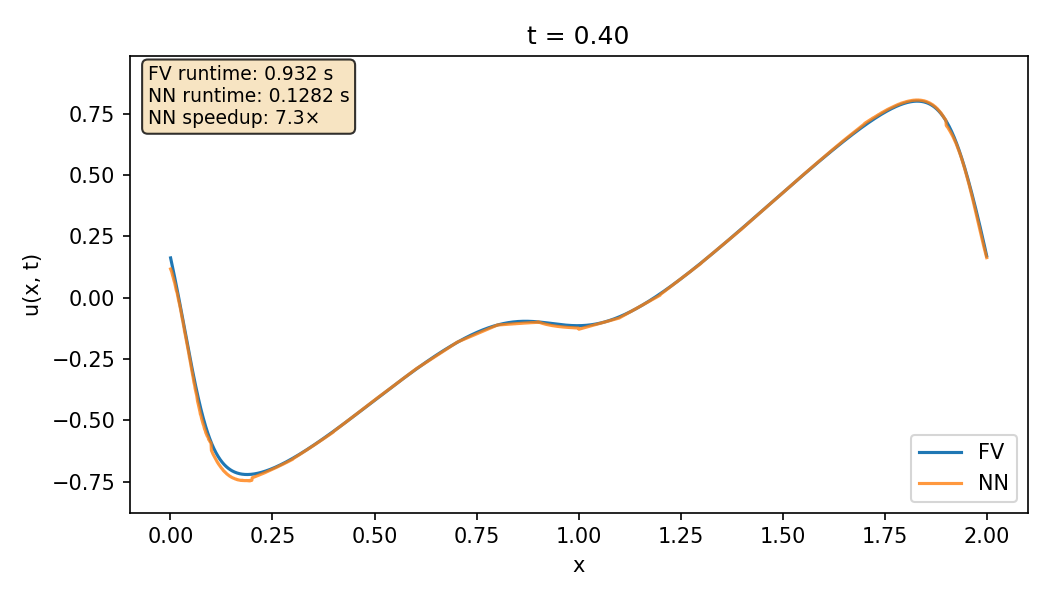
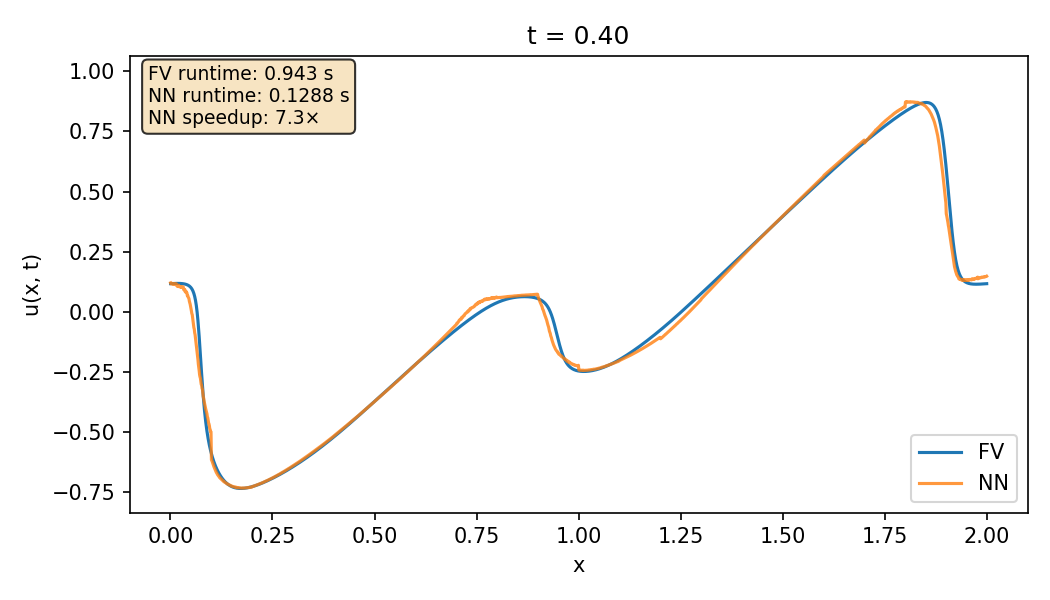
Update configs, figures, and remove latex/README.md

diff --git a/latex/report.tex b/latex/report.tex
@@ -1,4 +1,4 @@
-\documentclass[11pt,a4paper]{article}
+\documentclass[11pt,a4paper]{article}
 \usepackage[utf8]{inputenc}
 \usepackage[T1]{fontenc}
 \usepackage{amsmath,amssymb}
@@ -18,29 +18,27 @@
 \maketitle
 
 \begin{abstract}
-We report numerical experiments for data-driven surrogate models of three PDEs: (1)~1D viscous Burgers equation (finite-volume reference vs.\ MLP); (2)~2D linear wave equation (Fourier spectral reference vs.\ MLP); (3)~2D nonlinear rotating shallow water (Fourier spectral reference vs.\ CNN). For each problem we generate training data from the reference solver, train a neural network, and compare reference and NN rollouts in time. Training curves and comparison figures are included. All configuration parameters are centralized in config files; PDE and training pipelines are unified under a single codebase.
+We report numerical experiments for data-driven surrogate models of three PDEs: (1)~1D viscous Burgers equation (finite-volume reference vs.\ MLP); (2)~2D linear wave equation (Fourier spectral reference vs.\ MLP); (3)~2D nonlinear shallow water (Fourier spectral reference vs.\ CNN). For each problem we generate training data from the reference solver, train a neural network, and compare reference and NN rollouts in time. Training curves and comparison figures are included.
 \end{abstract}
 
-\section{Background}\label{sec:background}
+\section{Background}
 
 \subsection{Element learning}
-The goal is to learn a \emph{local} map (one time step or a few) on a small spatial element (patch) from data produced by a high-fidelity solver. At inference time, the learned map is applied in a rollout over the domain, yielding a fast surrogate that can be compared to the reference solver in accuracy and runtime.
+The goal is to learn a local map on a small spatial element or patch from data produced by a high-fidelity solver. At inference time, the learned map is applied in rollout form over the full domain, yielding a fast surrogate that can be compared to the reference solver in both accuracy and runtime.
 
 \subsection{Three test cases}
 \begin{itemize}
-  \item \textbf{1D Burgers (viscous):} $u_t + u u_x = \nu u_{xx}$ on $[0,L]$ with periodic BC. Reference: finite-volume Godunov flux + implicit diffusion. NN: MLP mapping a 1D patch (input length $2n_{\mathrm{st}}+n_{\mathrm{wd}}$) to interior ($n_{\mathrm{wd}}$ cells) over one step of $n_{\mathrm{jp}}$ time steps.
-  \item \textbf{2D linear wave:} $u_{tt} = c^2(u_{xx}+u_{yy})$ with periodic BC. Reference: Fourier pseudo-spectral with RK4 time stepping. NN: MLP mapping two channels (displacement and velocity) on a 2D patch to the interior over one frame.
-  \item \textbf{2D nonlinear shallow water:} Rotating shallow water in Fourier space with RK4. State $(h,q_x,q_y)$. Reference: spectral; NN: CNN (patch in, patch out) with optional TV regularization in the loss.
+  \item \textbf{1D Burgers (viscous):} $u_t + u u_x = \nu u_{xx}$ on $[0,L]$ with periodic BC. Reference: finite-volume Godunov flux with implicit diffusion. NN: MLP mapping a 1D patch to the interior window over one NN step.
+  \item \textbf{2D linear wave:} $u_{tt} = c^2(u_{xx}+u_{yy})$ with periodic BC. Reference: Fourier pseudo-spectral with RK4 time stepping. NN: MLP mapping patch data from displacement and velocity channels to the interior window.
+  \item \textbf{2D nonlinear shallow water:} state $(h,q_x,q_y)$ solved by a spectral reference model. NN: CNN patch-to-patch predictor trained with per-channel relative TV regularization.
 \end{itemize}
 
-\section{Experimental parameters}\label{sec:parameters}
-
-All parameters are defined in the \texttt{config/} module; below we summarize the main choices.
+\section{Experimental parameters}
 
 \subsection{1D Burgers}
 \begin{table}[H]
   \centering
-  \caption{Burgers: solver and data (from \texttt{config/burgers\_1d\_config.py}).}
+  \caption{Burgers configuration from \texttt{config/burgers\_1d\_config.py}.}
   \begin{tabular}{ll}
     \toprule
     Parameter & Value \\
@@ -48,17 +46,16 @@ All parameters are defined in the \texttt{config/} module; below we summarize th
     Domain length $L$ & 2.0 \\
     Grid cells $n_x$ & 2000 \\
     CFL & 0.5 \\
-    Time step $\Delta t$ & CFL$\cdot L/n_x$ \\
-    Patch half-width $n_{\mathrm{st}}$ & $\lfloor n_{\mathrm{jp}}\cdot \mathrm{CFL}\rfloor+1$ (51) \\
+    Patch half-width $n_{\mathrm{st}}$ & 51 \\
     Interior width $n_{\mathrm{wd}}$ & 100 \\
     Jumps per NN step $n_{\mathrm{jp}}$ & 100 \\
-    Viscosity $\nu$ & $10^{-2}$ \\
-    IC decay $\alpha$, $u_{\mathrm{mean}}$ & 3.0, 0.0 \\
-    \midrule
+    Viscosity $\nu$ & $10^{-3}$ \\
+    IC decay $\alpha$ & 2.5 \\
     Training samples & 5000 \\
     Batch size & 128 \\
     Epochs & 2500 \\
-    Hidden size / layers & 128 / 6 (MLP) \\
+    Hidden size / layers & 128 / 5 \\
+    Activation & ReLU \\
     \bottomrule
   \end{tabular}
 \end{table}
@@ -66,23 +63,24 @@ All parameters are defined in the \texttt{config/} module; below we summarize th
 \subsection{2D linear wave}
 \begin{table}[H]
   \centering
-  \caption{2D linear wave: grid and training (from \texttt{config/wave\_2d\_linear\_config.py}).}
+  \caption{Linear wave configuration from \texttt{config/wave\_2d\_linear\_config.py}.}
   \begin{tabular}{ll}
     \toprule
     Parameter & Value \\
     \midrule
-    Grid $N_X\times N_Y$ & $256\times 256$ \\
+    Grid $N_X\times N_Y$ & $256\times256$ \\
     Domain $L_x=L_y$ & $2\pi$ \\
     $\Delta t$ & $2\times 10^{-3}$ \\
     Wave speed $c$ & 1.0 \\
-    $T_{\mathrm{screen}}$ (steps per frame) & 50 \\
+    Steps per saved frame $T_{\mathrm{screen}}$ & 50 \\
     Frames per NN step $n_{\mathrm{jp}}$ & 2 \\
-    Patch interior $n_{\mathrm{wd}}$ & 32 \\
-    Compare IC & ring \\
-    \midrule
-    Training samples & 6000 \\
+    Patch half-width $n_{\mathrm{st}}$ & 9 \\
+    Interior width $n_{\mathrm{wd}}$ & 32 \\
+    Training samples & 5000 \\
     Epochs & 2500 \\
-    Hidden size / layers & 256 / 5 (MLP, identity output) \\
+    Hidden size / layers & 256 / 1 \\
+    Activation & linear \\
+    Compare IC & ring \\
     \bottomrule
   \end{tabular}
 \end{table}
@@ -90,34 +88,34 @@ All parameters are defined in the \texttt{config/} module; below we summarize th
 \subsection{2D nonlinear shallow water}
 \begin{table}[H]
   \centering
-  \caption{2D nonlinear: grid and training (from \texttt{config/wave\_2d\_nonlinear\_config.py}).}
+  \caption{Nonlinear shallow-water configuration from \texttt{config/wave\_2d\_nonlinear\_config.py}.}
   \begin{tabular}{ll}
     \toprule
     Parameter & Value \\
     \midrule
-    Grid $n_x\times n_y$ & $256\times 256$ \\
-    $L_x=L_y$ & $2\pi$ \\
+    Grid $n_x\times n_y$ & $256\times256$ \\
+    Domain $L_x=L_y$ & $2\pi$ \\
     $g$, $h_0$ & 9.8, 1.0 \\
-    $T_{\mathrm{screen}}$ & 10 \\
-    $n_{\mathrm{wd}}$ & 32 \\
-    Warmup $T_{\mathrm{warmup}}$ & 4.0 (early frames excluded) \\
-    Compare $T_F$ & 2.0 \\
+    Steps per saved frame $T_{\mathrm{screen}}$ & 10 \\
+    Patch half-width $n_{\mathrm{st}}$ & 10 \\
+    Interior width $n_{\mathrm{wd}}$ & 32 \\
+    Warmup time & 4.0 \\
+    Compare $T_F$ & 3.0 \\
     Compare frames & 8 \\
     Compare IC & random \\
-    \midrule
-    Training samples & 6000 \\
+    Training samples & 5000 \\
     Epochs & 150 \\
     CNN base channels & 48 \\
-    TV smooth weight & [0.0, 0.02, 0.02] (per-channel: $h$-$h_0$, $q_x$, $q_y$) \\
+    TV smooth weight & [0.0, 0.02, 0.02] \\
     TV smooth mode & relative \\
     \bottomrule
   \end{tabular}
 \end{table}
 
-\section{Results}\label{sec:results}
+\section{Results}
 
 \subsection{Training history}
-Figure~\ref{fig:training} shows train and test loss (L1) vs.\ epoch for the three problems. Burgers and 2D linear use MLP; 2D nonlinear uses a residual CNN (3 in/out channels).
+Figure~\ref{fig:training} shows the train and test loss versus epoch for the three problems.
 
 \begin{figure}[H]
   \centering
@@ -135,18 +133,17 @@ Figure~\ref{fig:training} shows train and test loss (L1) vs.\ epoch for the thre
     \includegraphics[width=\textwidth]{figures/wave_2d_nonlinear/training_history.png}
     \caption{2D nonlinear}
   \end{subfigure}
-  \caption{Training and test loss (log scale) vs.\ epoch.}
+  \caption{Training and test loss versus epoch.}
   \label{fig:training}
 \end{figure}
 
-\subsection{1D Burgers: FV vs.\ NN}
-Comparison at 6 output times $t\in[0,2]$ (config: \texttt{compare\_t\_end=2.0}, \texttt{compare\_n\_times=6}). Reference: FV solver; surrogate: MLP rollout. Runtimes (this run): FV total $7.038$\,s, NN total $0.7372$\,s (speedup $9.55\times$).
+\subsection{1D Burgers: FV vs. NN}
+Comparison at 6 output times over $t\in[0,2]$ with \texttt{compare\_t\_end=2.0}. Runtime for this run: FV total $4.166$\,s, NN total $0.3310$\,s, speedup $12.59\times$.
 
 \begin{figure}[H]
   \centering
   \includegraphics[width=0.7\textwidth]{figures/burgers_1d/t0.png}
-  \caption{Burgers: $t=0$ (initial).}
-  \label{fig:burgers_t0}
+  \caption{Burgers: initial frame.}
 \end{figure}
 \begin{figure}[H]
   \centering
@@ -156,70 +153,48 @@ Comparison at 6 output times $t\in[0,2]$ (config: \texttt{compare\_t\_end=2.0}, 
 \begin{figure}[H]
   \centering
   \includegraphics[width=0.7\textwidth]{figures/burgers_1d/t5.png}
-  \caption{Burgers: final frame ($t=2.0$).}
+  \caption{Burgers: final frame.}
 \end{figure}
 
-\subsection{2D linear wave: Spectral vs.\ NN}
-Comparison at 6 aligned frames (config: \texttt{compare\_TF=1.0}, \texttt{compare\_ic=ring}, $n_{\mathrm{jp}}=2$). Reference: Fourier spectral; surrogate: MLP over patches. Runtimes (this run): Spectral $4.742$\,s, NN $0.2294$\,s (speedup $20.7\times$).
+\subsection{2D linear wave: Spectral vs. NN}
+Comparison at 6 aligned frames with \texttt{compare\_TF=1.0} and \texttt{compare\_ic=ring}. Runtime for this run: spectral $3.620$\,s, NN $0.0975$\,s, speedup $37.13\times$.
 
 \begin{figure}[H]
   \centering
   \includegraphics[width=0.85\textwidth]{figures/wave_2d_linear/t0.png}
-  \caption{2D linear: frame 0 (u and v, spectral vs.\ NN).}
-  \label{fig:linear_t0}
+  \caption{2D linear wave: initial frame.}
 \end{figure}
 \begin{figure}[H]
   \centering
   \includegraphics[width=0.85\textwidth]{figures/wave_2d_linear/t3.png}
-  \caption{2D linear: mid-run frame.}
+  \caption{2D linear wave: mid-run frame.}
 \end{figure}
 \begin{figure}[H]
   \centering
   \includegraphics[width=0.85\textwidth]{figures/wave_2d_linear/t5.png}
-  \caption{2D linear: final frame.}
+  \caption{2D linear wave: final frame.}
 \end{figure}
 
-\subsection{2D nonlinear shallow water: Spectral vs.\ NN}
-Comparison at 8 aligned frames for state $(h-h_0,q_x,q_y)$ (config: \texttt{compare\_TF=3.0}, \texttt{compare\_ic=random}, $n_{\mathrm{jp}}=2$). Both reference and NN rollout start from $T=4.0$ (warmup phase excluded). Reference: spectral; surrogate: CNN with per-channel TV regularization (base=48, 150 epochs).
-
-\paragraph{TV regularization sweep.} We tuned the per-channel weight $\lambda=[\lambda_h, \lambda_{q_x}, \lambda_{q_y}]$ in relative mode. Results are summarized in Table~\ref{tab:tv_sweep}.
-
-\begin{table}[H]
-  \centering
-  \caption{Per-channel TV weight sweep results (relative mode, same training setup).}
-  \label{tab:tv_sweep}
-  \begin{tabular}{llrr}
-    \toprule
-    Configuration & $[\lambda_h,\,\lambda_{q_x},\,\lambda_{q_y}]$ & L1 mean & L1 max \\
-    \midrule
-    no-TV            & [0.00, 0.00, 0.00] & 0.019987 & 0.035442 \\
-    \textbf{rel-0.02 (selected)} & \textbf{[0.00, 0.02, 0.02]} & \textbf{0.017830} & \textbf{0.030551} \\
-    rel-0.05         & [0.00, 0.05, 0.05] & 0.018140 & 0.031533 \\
-    rel-0.05+h0.01   & [0.01, 0.05, 0.05] & 0.054181 & 0.126209 \\
-    rel-0.02+h0.01   & [0.01, 0.02, 0.02] & 0.033959 & 0.058720 \\
-    \bottomrule
-  \end{tabular}
-\end{table}
-
-The best configuration is $\lambda=[0,0.02,0.02]$ (relative). Adding regularization on the $h$ channel hurts significantly, as its amplitude ($\sim 0.02$) is much smaller than $q_x,q_y$ ($\sim 0.7$) even in relative mode. Final model: L1 error mean $0.015657$ (max frame $0.027120$). Runtimes: Spectral $106.133$\,s, NN $5.9168$\,s (speedup $17.9\times$).
+\subsection{2D nonlinear shallow water: Spectral vs. NN}
+Comparison at 8 aligned frames for $(h-h_0,q_x,q_y)$ with \texttt{compare\_TF=3.0} and \texttt{compare\_ic=random}. Both rollouts start after warmup time $T=4.0$. Final rollout metrics for this run: mean L1 error $0.034743$, max-frame L1 error $0.077908$, spectral runtime $116.512$\,s, NN runtime $6.8015$\,s, speedup $17.13\times$.
 
 \begin{figure}[H]
   \centering
   \includegraphics[width=0.9\textwidth]{figures/wave_2d_nonlinear/t0.png}
-  \caption{2D nonlinear: $t=0$ (three components, spectral vs.\ NN).}
-  \label{fig:nonlinear_t0}
+  \caption{2D nonlinear shallow water: initial frame.}
 \end{figure}
 \begin{figure}[H]
   \centering
   \includegraphics[width=0.9\textwidth]{figures/wave_2d_nonlinear/t3.png}
-  \caption{2D nonlinear: mid-run frame ($t\approx 1.0$\,s).}
+  \caption{2D nonlinear shallow water: mid-run frame.}
 \end{figure}
 \begin{figure}[H]
   \centering
   \includegraphics[width=0.9\textwidth]{figures/wave_2d_nonlinear/t7.png}
-  \caption{2D nonlinear: final frame ($t=2.0$\,s).}
+  \caption{2D nonlinear shallow water: final frame.}
 \end{figure}
 
-\section{Conclusion}\label{sec:conclusion}
-The pipelines for 1D Burgers, 2D linear wave, and 2D nonlinear shallow water run successfully with a unified workflow: \texttt{gen\_data.py}, \texttt{ml.train}, and \texttt{compare.py} are invoked with \texttt{--problem} to select the case. All configuration is in \texttt{config/}; PDE modules take parameters from config and contain no duplicate defaults. The reported figures show that the NN surrogates track the reference solutions and achieve noticeable speedups in the comparison runs.
+\section{Conclusion}
+The three pipelines run successfully with a unified workflow: \texttt{gen\_data.py}, \texttt{python -m ml.train}, and \texttt{compare.py} are all selected through the shared \texttt{--problem} interface. The rebuilt figures show that the learned surrogates track the reference solutions while delivering clear runtime savings in all three cases.
+
 \end{document}

diff --git a/config/burgers_1d_config.py b/config/burgers_1d_config.py
@@ -17,15 +17,15 @@ njp = 100
 nst = int(np.floor(njp * CFL)) + 1
 nwd = 100
 # Initial condition
-alpha = 3.0
+alpha = 2.5
 u_mean = 0.0
-nu = 1e-2
+nu = 1e-3
 
 # ---------------------------------------------------------------------------
 # Data generation
 # ---------------------------------------------------------------------------
 nsamp = 5000
-n_trajectories = 5
+n_trajectories = 10
 seed_base = 42
 
 # ---------------------------------------------------------------------------
@@ -34,7 +34,7 @@ seed_base = 42
 b_size = 128
 num_epochs = 2500
 hidden_size = 128
-num_layers = 6
+num_layers = 5
 activation = "relu"  # relu|tanh|gelu|linear
 lr_schedule = [(1000, 1e-3), (2000, 1e-4), (2500, 1e-5)]
 

diff --git a/config/wave_2d_linear_config.py b/config/wave_2d_linear_config.py
@@ -21,7 +21,7 @@ nst = int(np.floor(njp * dt_samp / dx)) + 1
 patch_side = 2 * nst + nwd
 
 # Data generation
-nsamp = 6000
+nsamp = 5000
 ntest = 10
 ic_list = ["random_white", "packet", "ring"]
 rng_seeds = list(range(1, 21))
@@ -30,7 +30,7 @@ rng_seeds = list(range(1, 21))
 b_size = 128
 num_epochs = 2500
 hidden_size = 256
-num_layers = 5
+num_layers = 1
 activation = "linear"  # relu|tanh|gelu|linear
 lr_schedule = [(1000, 1e-3), (2000, 1e-4), (2500, 1e-5)]
 
